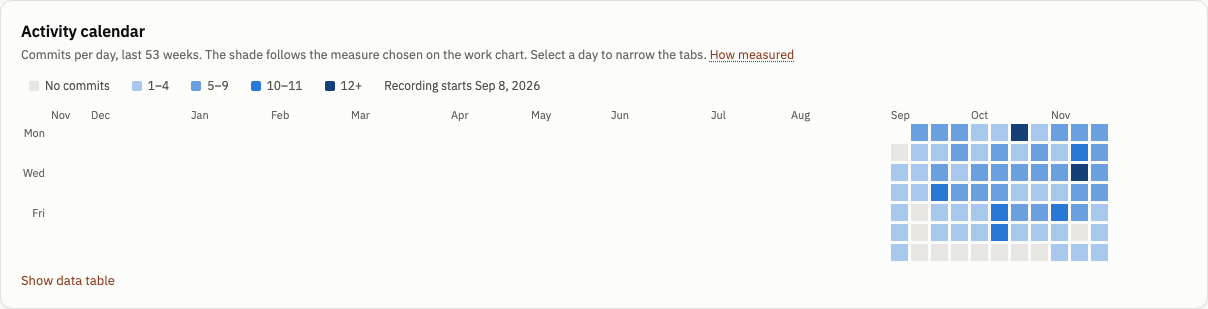
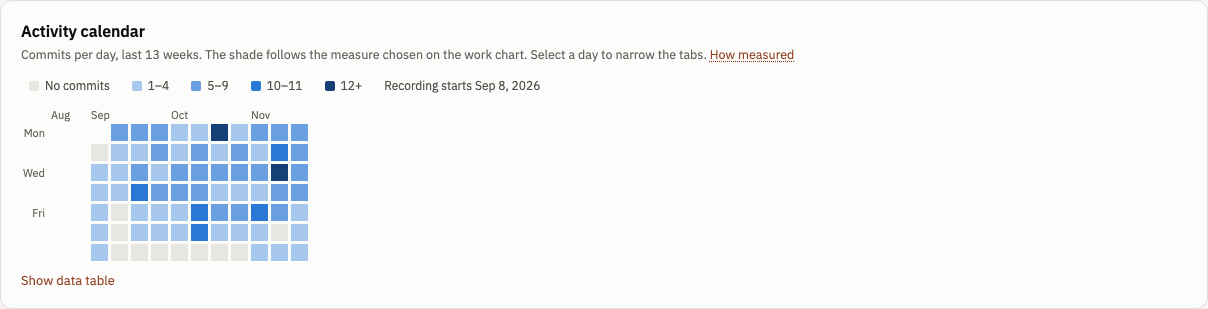
docs(activity): re-record the calendar shots with 13 weeks
Describe the new image in its alt text and in the shots README.

diff --git a/site/src/assets/shots/README.md b/site/src/assets/shots/README.md
@@ -14,7 +14,7 @@ Only the shots a page shows are kept: a shot no page references is deleted, and 
 | `activity-attention` | "Needs attention": the short list of things to look at (error loops, sessions near the window, failing tools, failed tests). | Activity, First tour |
 | `activity-vitals` | The work-health row of tiles. | Activity |
 | `activity-work` | "Work per day": commits per day by project, with errors per 100 calls on a track under the bars and the zoom slider under both. | Activity |
-| `activity-calendar` | "Activity calendar": the last 53 weeks as a grid of day cells, the key with each step's numbers, and the month and weekday labels. The demo store holds 75 days, so the cells fill the newest weeks and the key says where recording starts. | Activity |
+| `activity-calendar` | "Activity calendar": the weeks since recording started, at least 13, as a grid of day cells, the key with each step's numbers, and the month and weekday labels. The demo store holds 75 days over 11 weeks, so the grid shows 13 weeks, the first two with no cells, and the key says where recording starts. | Activity |
 | `cost-overview` | The heading, the filters and the plan gauge. | Cost |
 | `cost-spend` | "Estimated cost per day", stacked by project, with the 7-day average and the zoom slider under the day labels. | Cost |
 | `cost-projects` | "Project spend and change": trend, spend, change, cost per commit and cache hit per project. | Cost |
